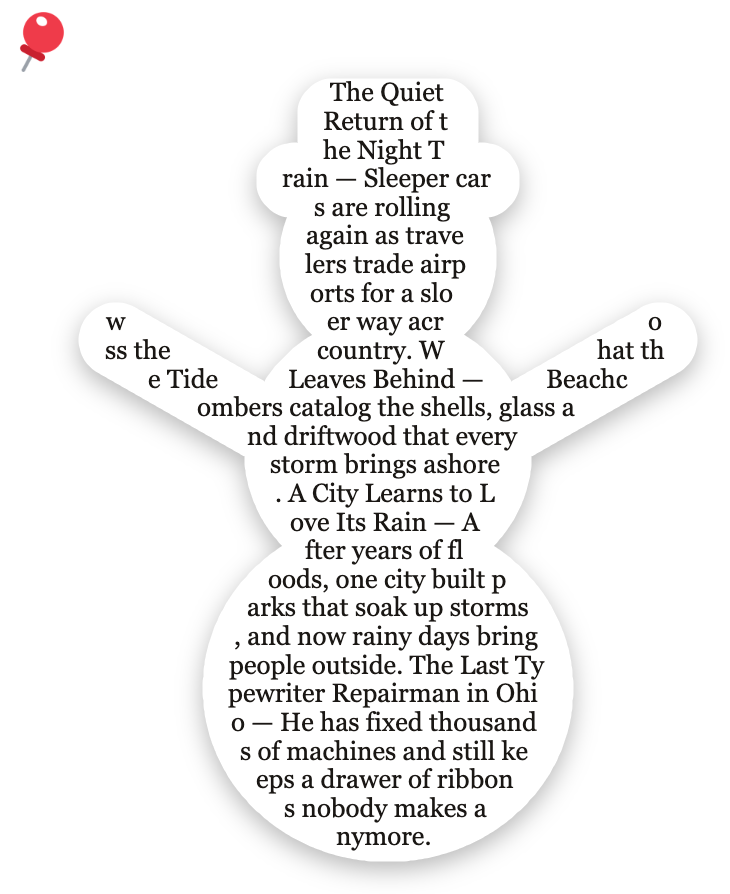
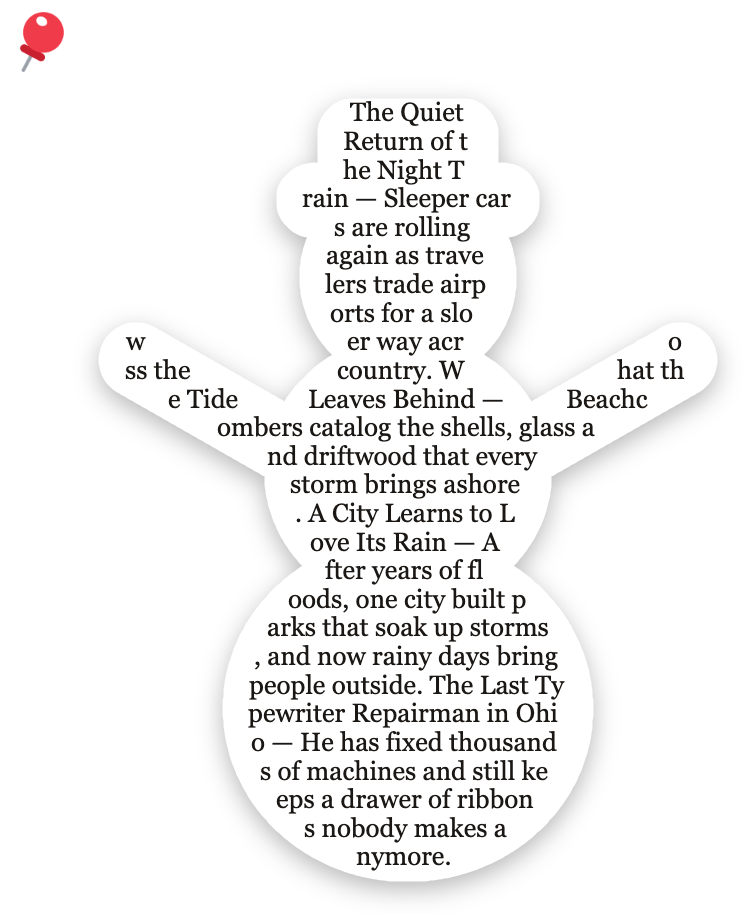
Sticker: the pin always has a clear gap from the die-cut, whatever the shape

diff --git a/src/pushpin/cards.py b/src/pushpin/cards.py
@@ -756,8 +756,9 @@ async function sticker(day, kind, built = 1) {  // an unfinished day: just the p
   for (let y = 0; y < H; y += 2) for (let x = 0; x < W; x += 2) if (shape(x, y)) {
     x0 = Math.min(x0, x); x1 = Math.max(x1, x); y0 = Math.min(y0, y); y1 = Math.max(y1, y);
   }
-  // border, room for the shadow, and the pin's own corner (top left), clear of the words
-  const B = 26, P = B + 34, PIN = 72, room = 44, ox = P + room - x0, oy = P + room - y0;
+  // border, room for the shadow, and the pin's own corner (top left): the die-cut's edge always
+  // starts a clear GAP beyond the pin, whatever the shape
+  const B = 26, P = B + 34, PIN = 72, AT = 6, GAP = 20, room = AT + PIN + GAP - (P - B), ox = P + room - x0, oy = P + room - y0;
   const out = document.createElement('canvas'); out.width = x1 - x0 + 2 * P + room; out.height = y1 - y0 + 2 * P + room;
   const mask = document.createElement('canvas'); mask.width = W; mask.height = H;
   const mc = mask.getContext('2d'); dino(mc, W, H, day.flip, kind, true);  // traced around the solid shape
@@ -779,7 +780,7 @@ async function sticker(day, kind, built = 1) {  // an unfinished day: just the p
   c.font = fs + 'px Georgia, "Times New Roman", serif'; c.textBaseline = 'middle'; c.fillStyle = STICKER_INK;
   for (const g of glyphs) c.fillText(g[0], ox + g[1], oy + g[2]);
   const im = await pinIcon();
-  if (im) c.drawImage(im, 6, 6, PIN, PIN);
+  if (im) c.drawImage(im, AT, AT, PIN, PIN);
   return out;
 }
 let sheet = null;
